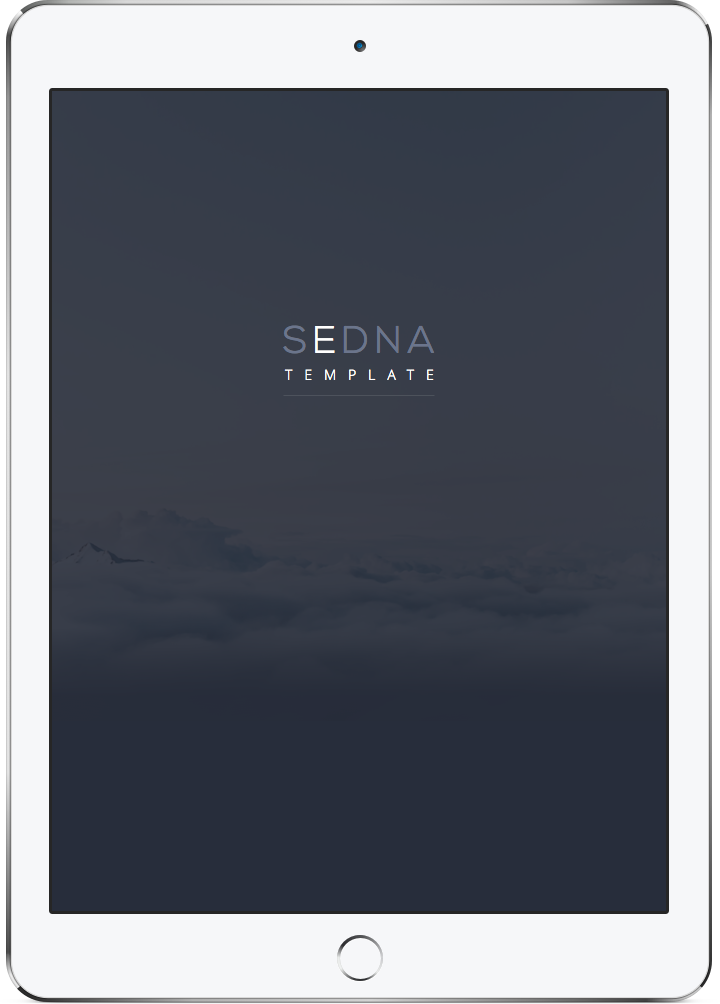
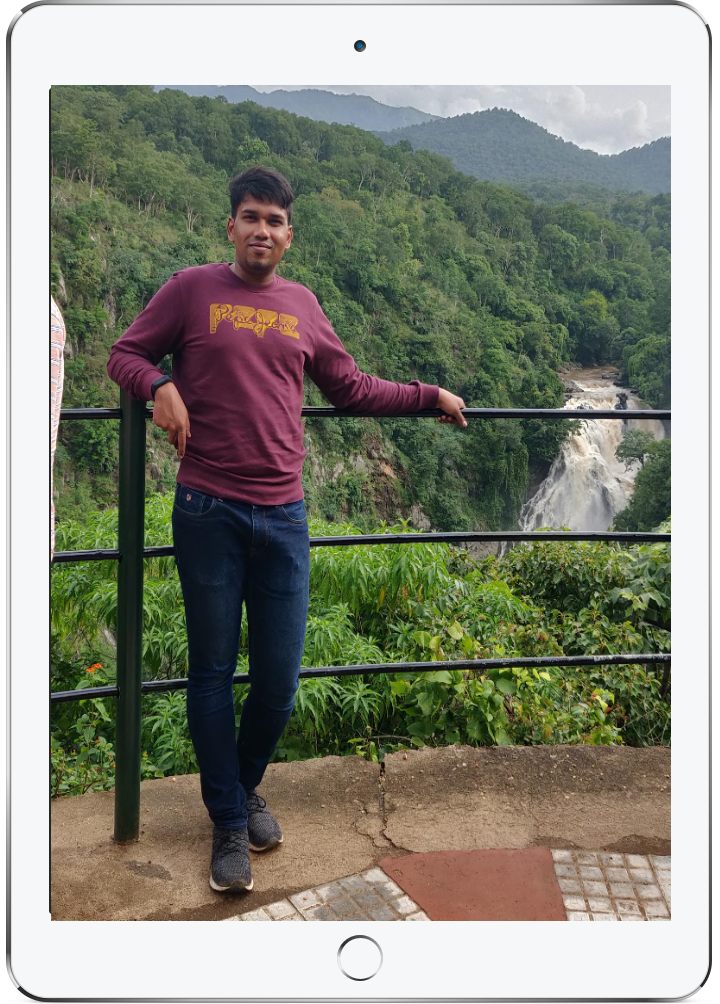
Commit for mobile check

diff --git a/index.html b/index.html
@@ -7,7 +7,7 @@
     <meta charset="utf-8">
     <!--<meta http-equiv="X-UA-Compatible" content="IE=edge,chrome=1">-->
     <meta http-equiv="X-UA-Compatible" content="IE=edge" />
-    <title>Sedna - A Free HTML5/CSS3 website</title>
+    <title>Derrick - Resume & More</title>
     <meta name="description" content="">
     <meta name="viewport" content="width=device-width, initial-scale=1">
     <link rel="apple-touch-icon" href="apple-touch-icon.png">
@@ -29,7 +29,7 @@
     <p class="browserupgrade">You are using an <strong>outdated</strong> browser. Please <a href="http://browsehappy.com/">upgrade your browser</a> to improve your experience.</p>
     <![endif]-->
     <section class="hero">
-        <section class="navigation">
+        <section class="navigation" > 
             <header>
                 <div class="header-content">
                     <div class="logo"><a href="#"><img src="img/sedna-logo.png" alt="Sedna logo"></a></div>
@@ -41,15 +41,10 @@
                                 <li><a href="#blog">Blog</a></li>
                                 <li><a href="#download">Download</a></li>
                             </ul>
-                            <ul class="member-actions">
-                                <li><a href="#download" class="login">Log in</a></li>
-                                <li><a href="#download" class="btn-white btn-small">Sign up</a></li>
-                            </ul>
+                            
                         </nav>
                     </div>
-                    <div class="navicon">
-                        <a class="nav-toggle" href="#"><span></span></a>
-                    </div>
+                    
                 </div>
             </header>
         </section>
@@ -57,10 +52,9 @@
             <div class="row">
                 <div class="col-md-10 col-md-offset-1">
                     <div class="hero-content text-center">
-                        <h1>Design, collaborate, win!</h1>
-                        <p class="intro">Introducing “Sedna”. A responsive one page website, designed & developed exclusively for Codrops.</p>
-                        <a href="#" class="btn btn-fill btn-large btn-margin-right">Download</a> <a href="#" class="btn btn-accent btn-large">Learn more</a>
-                    </div>
+                        <h1>Hello there, Welcome!</h1>
+                        <p class="intro">This site serves as permanent, unquanifiable extension of a mortal, quantifiable me.</p>
+                        </div>
                 </div>
             </div>
         </div>
@@ -71,11 +65,13 @@
             <div class="row">
                 <div class="col-md-4 intro-feature">
                     <div class="intro-icon">
-                        <span data-icon="&#xe033;" class="icon"></span>
+                        <span data-icon="&#xe040;" class="icon"></span>
                     </div>
                     <div class="intro-content">
-                        <h5>Easily Customised</h5>
-                        <p>Easily customise Sedna to suit your start up, portfolio or product. Take advantage of the layered Sketch file and bring your product to life.</p>
+                        <h5>Who is Derrick?</h5>
+                        <p>I've lived in Bangalore my whole life. Have been a regular runner and exploring new found interest in coding and gaming.
+                            Avid reader and can definitely recommend great podcasts worth your time.
+                        </p>
                     </div>
                 </div>
                 <div class="col-md-4 intro-feature">
@@ -83,8 +79,8 @@
                         <span data-icon="&#xe030;" class="icon"></span>
                     </div>
                     <div class="intro-content">
-                        <h5>Modern Design</h5>
-                        <p>Designed with modern trends and techniques in mind, Sedna will help your product stand out in an already saturated market.</p>
+                        <h5>Qualifications</h5>
+                        <p>CS Engineer by education. CX Consultant and Enthusiast. Self proclaimed fitness expert.</p>
                     </div>
                 </div>
                 <div class="col-md-4 intro-feature">
@@ -92,8 +88,9 @@
                         <span data-icon="&#xe046;" class="icon"></span>
                     </div>
                     <div class="intro-content last">
-                        <h5>Responsive Development</h5>
-                        <p>Built using the latest web technologies like html5, css3, and jQuery, rest assured Sedna will look smashing on every device under the sun.</p>
+                        <h5>Work Experience</h5>
+                        <p>3.5 years in Oracle service cloud. Systems analyst in an awesome team in Speridian Technolgies. 
+                            Previous employment in Oracle Corp.</p>
                     </div>
                 </div>
             </div>
@@ -104,34 +101,34 @@
             <div class="row">
                 <div class="col-md-5 col-md-offset-7">
                     <div class="feature-list">
-                        <h3>Sedna will drive your product forward</h3>
-                        <p>Present your product, start up, or portfolio in a beautifully modern way. Turn your visitors in to clients.</p>
+                        <h3>Academics and Credentials</h3>
+                        <p>Brief details   </p>
                         <ul class="features-stack">
                             <li class="feature-item">
                                 <div class="feature-icon">
-                                    <span data-icon="&#xe03e;" class="icon"></span>
+                                    <h3>2010</h3>
                                 </div>
                                 <div class="feature-content">
-                                    <h5>Universal & Responsive</h5>
-                                    <p>Sedna is universal and will look smashing on any device.</p>
+                                    <h5>Class 10 </h5>
+                                    <p>St John's High School : Percentile - 72.5%</p>
                                 </div>
                             </li>
                             <li class="feature-item">
                                 <div class="feature-icon">
-                                    <span data-icon="&#xe040;" class="icon"></span>
+                                    <h3>2012</h3>
                                 </div>
                                 <div class="feature-content">
-                                    <h5>User Centric Design</h5>
-                                    <p>Sedna takes advantage of common design patterns, allowing for a seamless experience for users of all levels.</p>
+                                    <h5>Class 12</h5>
+                                    <p>St Joseph's High School : Percentile - 73.33%</p>
                                 </div>
                             </li>
                             <li class="feature-item">
                                 <div class="feature-icon">
-                                    <span data-icon="&#xe03c;" class="icon"></span>
+                                    <h3>2016</h3>
                                 </div>
                                 <div class="feature-content">
-                                    <h5>Clean reusable code</h5>
-                                    <p>Download and re-use the Sedna open source code for any other project you like.</p>
+                                    <h5>CS Engineering</h5>
+                                    <p>Visvesvaraya Technological University : Percentile - 73.33%</p>
                                 </div>
                             </li>
                         </ul>

diff --git a/css/styles.css b/css/styles.css
@@ -348,7 +348,7 @@ Hero
 ========================================================================== */
 .hero {
   min-height: 750px;
-  background: url("../img/hero.jpg") center center;
+  background: linear-gradient(rgba(0, 0, 0, 0.5), rgba(0, 0, 0, 0.5)), url("../img/first_img.jpg") center center;
   background-size: cover;
   position: relative; }
   .hero .down-arrow a {
@@ -379,7 +379,6 @@ Hero
 
 header {
   padding: 50px 0;
-  border-bottom: solid 1px rgba(255, 255, 255, 0.2);
   position: relative;
   width: 1170px;
   margin: 0 auto;
